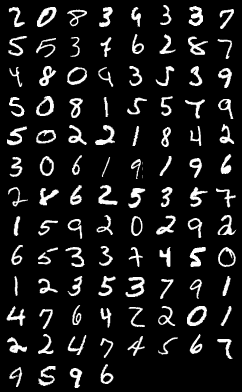
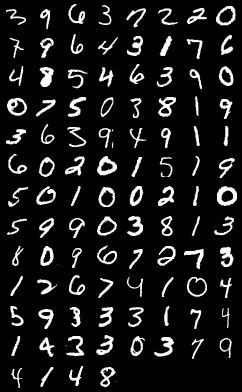
LSGAN

diff --git a/modules_tied.py b/modules_tied.py
@@ -182,6 +182,21 @@ class NetD(nn.Module):
         #o = self.main(x.view(-1,784))
         return d_l, o
 
+def get_direct_gradient_penalty(netD, x, gamma, cuda):
+    if cuda:
+        x = x.cuda()
+
+    x = autograd.Variable(x, requires_grad=True)
+    output = netD(x)
+    gradOutput = torch.ones(output.size()).cuda() if cuda else torch.ones(output.size())
+    
+    gradient = torch.autograd.grad(outputs=output, inputs=x, grad_outputs=gradOutput, create_graph=True, retain_graph=True, only_inputs=True)[0]
+    gradientPenalty = (gradient.norm(2, dim=1)).mean() * gamma
+    
+    return gradientPenalty
+
+    
+    
 def loss_function(recon_x, x, mu, logvar,bsz=100):
     #BCE = F.binary_cross_entropy(recon_x.view(-1,784), x.view(-1, 784))
     #MSE = F.mse_loss(recon_x.view(-1,784), x.view(-1,784))

diff --git a/README.md b/README.md
@@ -17,6 +17,12 @@ in the decoder is replaced by a reconstruction loss
 proportional to $p(D_l(x)|D(\tilde_{x}_l)) \sim N(D_l(x)|D_l(\tilde{x}),I)$, where $x$ is an input image, $\tilde{x}$ is a
 sample generated from the decoder Dec(z).
 
+#LSGAN VAE#
+Ongoing work to replace decoder with an LSGAN 
+https://github.com/zzzucf/lsgan-gp
+
+See samples (real, fake)
+
 $D_l$ is the output of the $l$^{th} hidden layer of the discriminator. It is NOT the output of the discriminator itself. This is a crucial point in that the discriminator outputs a number between 0 and 1 after being passed into the sigmoid activation function. While it is conceivable that one could use this kind of setup, it utterly fails to reproduce the input. However, things improve after we pick the intermediate layer output (presumably, because it has features and is therefore more informative than 0, 1). The resulting loss function is MSE for these learned features. 
 
 We therefore seem to be minimizing (D_l(x)-D_l(Dec(z)))^2.
